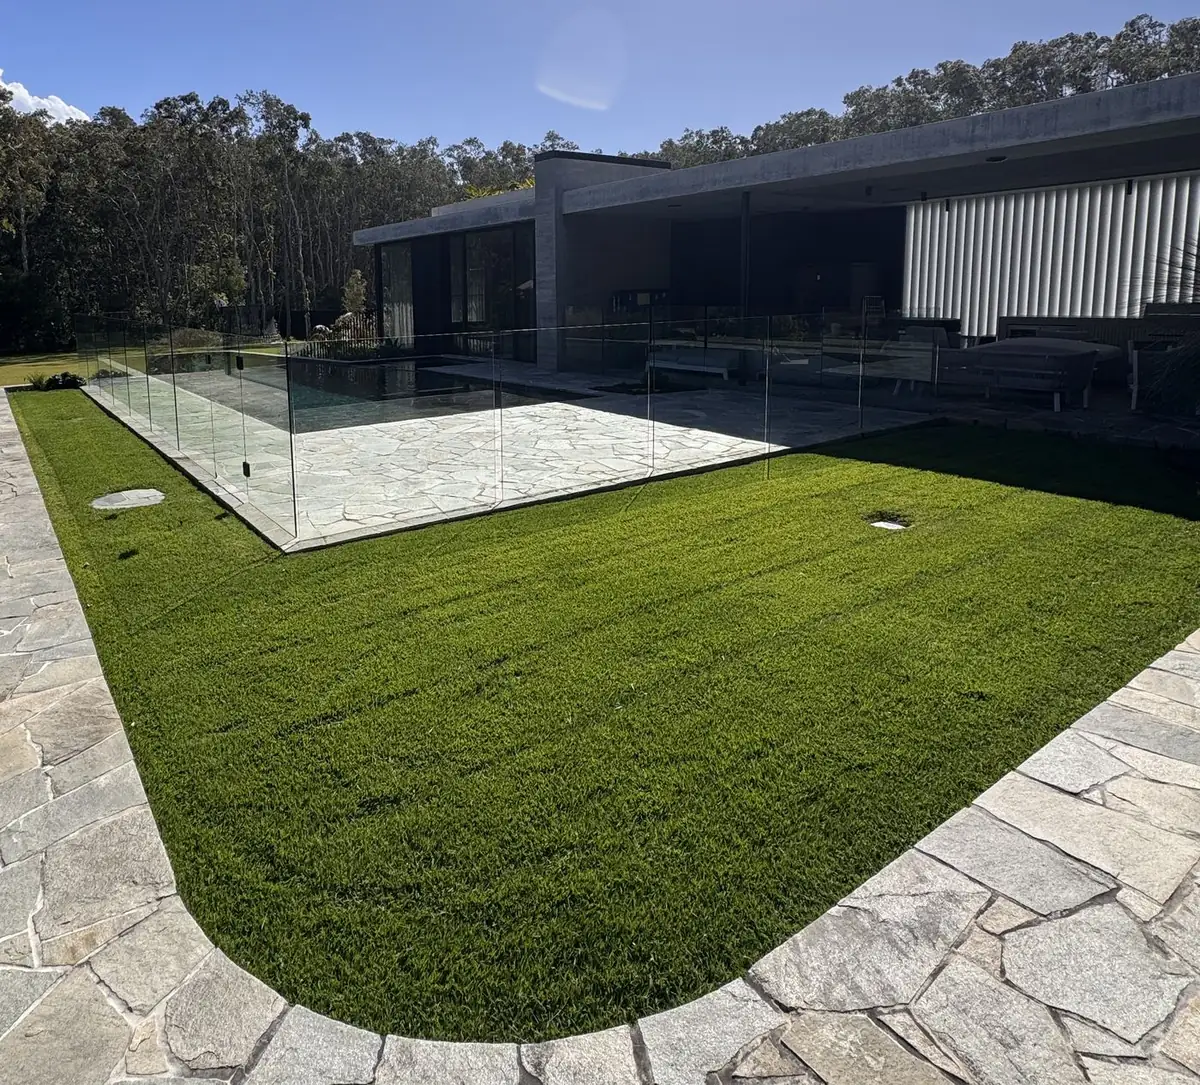
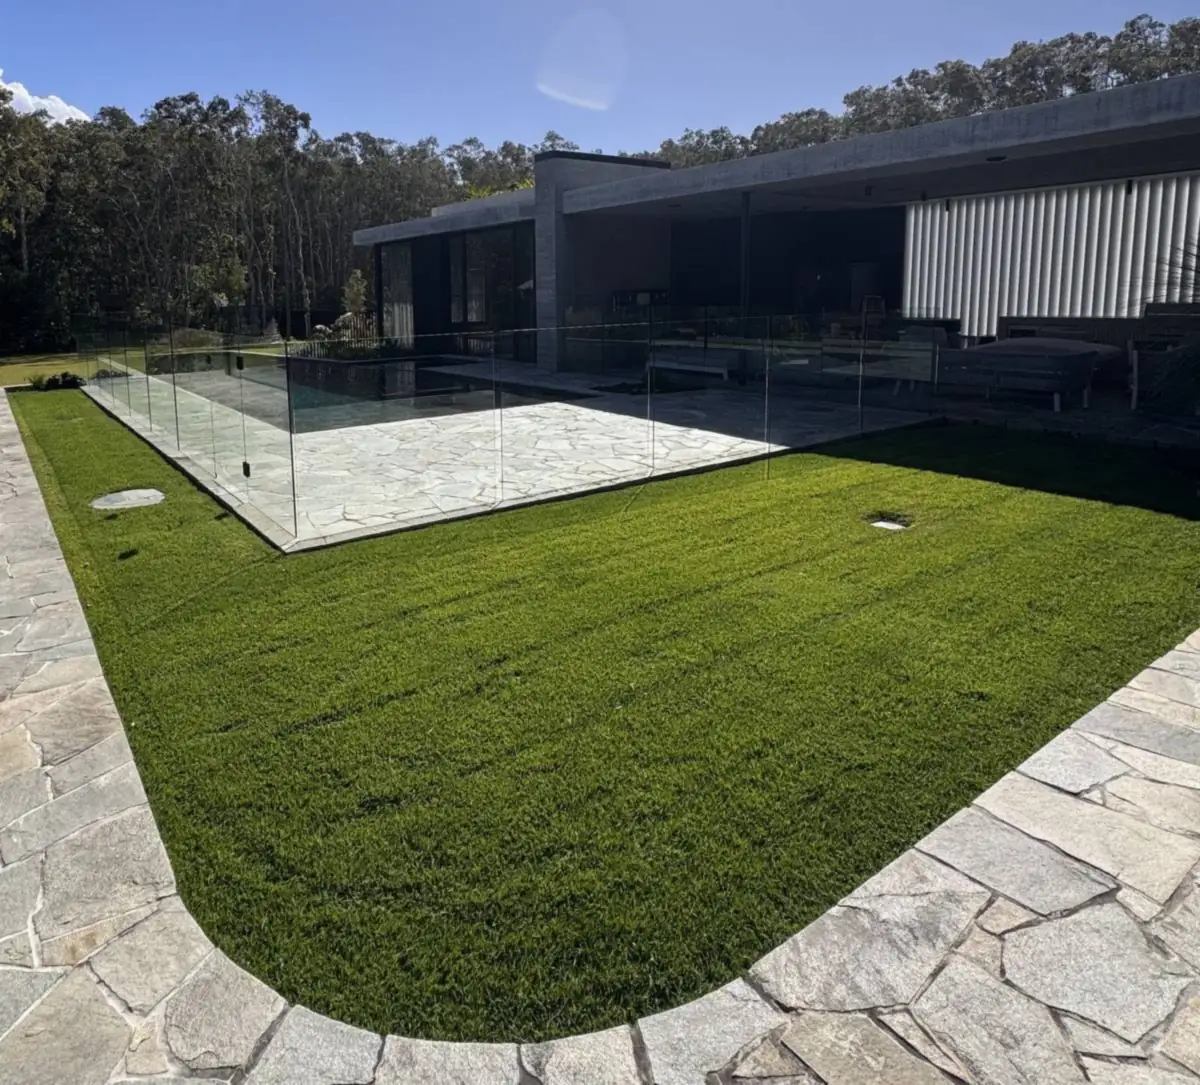
SEO improvements and Google reviews section (#4)

diff --git a/index.html b/index.html
@@ -3,8 +3,8 @@
 <head>
   <meta charset="utf-8">
   <meta name="viewport" content="width=device-width, initial-scale=1">
-  <title>Thrive Outdoor Solutions | Gardening &amp; Lawn Care, Maleny &amp; Sunshine Coast</title>
-  <meta name="description" content="Friendly, reliable gardening and garden maintenance from a local Maleny gardener. Lawn mowing, hedge trimming, weeding, mulching and green waste removal across the Sunshine Coast. Free quotes - call or text 0492 300 404.">
+  <title>Gardener Maleny &amp; Sunshine Coast | Thrive Outdoor Solutions</title>
+  <meta name="description" content="Local Maleny gardener: lawn mowing, hedging, weeding, mulching &amp; green waste across the Sunshine Coast. DVA &amp; aged care clients welcome. Call 0492 300 404.">
   <link rel="canonical" href="https://www.thriveoutdoorsolutions.com.au/">
   <meta name="theme-color" content="#0e1411">
   <link rel="icon" type="image/png" sizes="32x32" href="images/favicon-32.png">
@@ -15,21 +15,22 @@
   <meta property="og:locale" content="en_AU">
   <meta property="og:site_name" content="Thrive Outdoor Solutions">
   <meta property="og:url" content="https://www.thriveoutdoorsolutions.com.au/">
-  <meta property="og:title" content="Thrive Outdoor Solutions | Gardening &amp; Lawn Care, Sunshine Coast">
-  <meta property="og:description" content="Local Maleny gardener. Lawns, hedges, weeding, mulching and green waste removal across the Sunshine Coast. Free quotes - call or text 0492 300 404.">
+  <meta property="og:title" content="Gardener Maleny &amp; Sunshine Coast | Thrive Outdoor Solutions">
+  <meta property="og:description" content="Local Maleny gardener: lawn mowing, hedging, weeding, mulching &amp; green waste across the Sunshine Coast. DVA &amp; aged care clients welcome. Call 0492 300 404.">
   <meta property="og:image" content="https://www.thriveoutdoorsolutions.com.au/images/og-image.jpg">
   <meta property="og:image:width" content="1200">
   <meta property="og:image:height" content="630">
-  <meta property="og:image:alt" content="Thrive Outdoor Solutions logo">
+  <meta property="og:image:alt" content="Thrive Outdoor Solutions logo: two green leaves above the business name on a soft beige background">
   <meta name="twitter:card" content="summary_large_image">
 
   <link rel="preload" as="image" href="images/lawn-pool-720.webp" imagesrcset="images/lawn-pool-720.webp 720w, images/lawn-pool-1200.webp 1200w" imagesizes="(min-width: 900px) 46vw, 100vw" type="image/webp">
-  <link rel="stylesheet" href="css/styles.css?v=3">
+  <link rel="stylesheet" href="css/styles.css?v=4">
 
   <script type="application/ld+json">
   {
     "@context": "https://schema.org",
     "@type": "LocalBusiness",
+    "@id": "https://www.thriveoutdoorsolutions.com.au/#business",
     "name": "Thrive Outdoor Solutions",
     "description": "Gardening and garden maintenance on the Sunshine Coast, Queensland. Lawn mowing and edges, hedge trimming, mulching, weeding, weed spraying, small landscaping jobs, small tree trimming and green waste removal.",
     "url": "https://www.thriveoutdoorsolutions.com.au/",
@@ -37,11 +38,13 @@
     "email": "thriveoutdoorsolutions@gmail.com",
     "logo": "https://www.thriveoutdoorsolutions.com.au/images/icon-512.png",
     "image": "https://www.thriveoutdoorsolutions.com.au/images/og-image.jpg",
+    "priceRange": "From $80/hr",
     "founder": { "@type": "Person", "name": "Kewin Adosson" },
     "address": {
       "@type": "PostalAddress",
       "addressLocality": "Maleny",
       "addressRegion": "QLD",
+      "postalCode": "4552",
       "addressCountry": "AU"
     },
     "areaServed": [
@@ -55,7 +58,9 @@
       { "@type": "Place", "name": "Sunshine Beach, QLD" },
       { "@type": "Place", "name": "Nambour, QLD" }
     ],
+    "hasMap": "https://www.google.com/maps?cid=14386175522178846884",
     "sameAs": [
+      "https://www.google.com/maps?cid=14386175522178846884",
       "https://www.facebook.com/thriveoutdoorsolutions",
       "https://www.instagram.com/thriveoutdoorsolutions"
     ]
@@ -74,6 +79,7 @@
       <nav class="nav" aria-label="Main">
         <a href="#services">Services</a>
         <a href="#care">DVA &amp; aged care</a>
+        <a href="#reviews">Reviews</a>
         <a href="#quote">Contact</a>
       </nav>
       <a class="btn btn-sm" href="tel:0492300404">
@@ -88,8 +94,9 @@
     <section class="hero" id="top">
       <div class="wrap hero-grid">
         <div class="hero-copy">
-          <p class="eyebrow">Gardening &amp; garden maintenance &middot; Sunshine Coast</p>
-          <h1>Gardens kept tidy, healthy and <span class="accent">thriving</span>.</h1>
+          <p class="eyebrow">Local gardener &middot; Hinterland &amp; coast</p>
+          <h1>Garden maintenance in <span class="accent">Maleny</span> &amp; across the Sunshine Coast</h1>
+          <p class="hero-sub">Gardens kept tidy, healthy and thriving.</p>
           <p class="lede">Friendly, reliable lawn and garden care from a local Maleny gardener. One-off tidy-ups or regular visits, across the hinterland and the coast.</p>
           <div class="actions">
             <a class="btn" href="#quote">Get a free quote</a>
@@ -114,7 +121,7 @@
       <div class="wrap">
         <div class="section-head">
           <p class="eyebrow">Services &amp; pricing</p>
-          <h2 id="services-title">Everything your garden needs, done properly.</h2>
+          <h2 id="services-title">Gardening &amp; garden maintenance, done properly.</h2>
           <p class="muted">Every job starts with a free, no-obligation quote.</p>
         </div>
 
@@ -166,7 +173,7 @@
       <div class="wrap care">
         <div>
           <p class="eyebrow">Who I work with</p>
-          <h2 id="care-title">Homeowners, veterans and aged care clients.</h2>
+          <h2 id="care-title">A gardener for homeowners, veterans &amp; aged care clients.</h2>
         </div>
         <div class="care-copy">
           <p>As well as private residential clients, I provide gardening for veterans supported by <strong>DVA</strong> (Department of Veterans' Affairs) and for <strong>aged care and home care package</strong> clients.</p>
@@ -195,6 +202,42 @@
     </section>
     -->
 
+    <!-- REVIEWS -->
+    <section class="section" id="reviews" aria-labelledby="reviews-title">
+      <div class="wrap">
+        <div class="section-head reviews-head">
+          <div>
+            <p class="eyebrow">Google reviews</p>
+            <h2 id="reviews-title">What local clients say.</h2>
+          </div>
+          <p class="rating"><span class="stars" aria-hidden="true">&#9733;&#9733;&#9733;&#9733;&#9733;</span> <span><strong>5.0</strong> <span class="muted">from 5 Google reviews</span></span></p>
+        </div>
+
+        <div class="reviews">
+          <figure class="review">
+            <p class="stars" role="img" aria-label="5 out of 5 stars">&#9733;&#9733;&#9733;&#9733;&#9733;</p>
+            <blockquote><p>Highly recommend Kewin. Always great communication and a great job. Also a perfect gentleman. So polite and happy to discuss requirements. Easily a 5 star review.</p></blockquote>
+            <figcaption><strong>Michael Flannery</strong><span>Google review</span></figcaption>
+          </figure>
+          <figure class="review">
+            <p class="stars" role="img" aria-label="5 out of 5 stars">&#9733;&#9733;&#9733;&#9733;&#9733;</p>
+            <blockquote><p>Kewin is incredibly hard working and can do any gardening tasks, he is considerate, clean and trustworthy</p></blockquote>
+            <figcaption><strong>Andrew Burdon</strong><span>Google review</span></figcaption>
+          </figure>
+          <figure class="review">
+            <p class="stars" role="img" aria-label="5 out of 5 stars">&#9733;&#9733;&#9733;&#9733;&#9733;</p>
+            <blockquote><p>Kevin looks after our lawns, edges and hedges. He is very thorough, leaving our yard clean, tidy and secure when he is finished. He arrives on time and doesn't waste a moment getting stuck into our yard. We are very impressed with the results and our hedges are thicken up beautifully with the regular maintenance he undertakes. We would highly recommend Thrive Outdoor Solutions.</p></blockquote>
+            <figcaption><strong>Mela Mon</strong><span>Google review</span></figcaption>
+          </figure>
+        </div>
+
+        <div class="actions reviews-actions">
+          <a class="btn" href="https://search.google.com/local/writereview?placeid=ChIJf7LH64CoMmkRpNDji2r2pcc" target="_blank" rel="noopener">Leave a review</a>
+          <a class="btn btn-ghost" href="https://www.google.com/maps?cid=14386175522178846884" target="_blank" rel="noopener">See all reviews on Google</a>
+        </div>
+      </div>
+    </section>
+
     <!-- QUOTE / CONTACT -->
     <section class="section" id="quote" aria-labelledby="quote-title">
       <div class="wrap contact">
@@ -211,7 +254,14 @@
             <li><a href="sms:0492300404" id="sms-link"><span>Text</span>0492 300 404</a></li>
             <li><a href="mailto:thriveoutdoorsolutions@gmail.com"><span>Email</span>thriveoutdoorsolutions@gmail.com</a></li>
           </ul>
-          <p class="area"><span class="eyebrow">Service area</span>Based in Maleny, servicing the Sunshine Coast hinterland and coast, including Maleny, Montville, Buderim, Doonan, Diddillibah, Kulangoor, Sunshine Beach, the Nambour area and surrounds.</p>
+          <div class="area">
+            <h3 class="eyebrow">Areas I service</h3>
+            <dl class="areas">
+              <div><dt>Hinterland</dt><dd>Maleny, Montville</dd></div>
+              <div><dt>Coast</dt><dd>Buderim, Doonan, Diddillibah, Kulangoor, Sunshine Beach, Nambour</dd></div>
+            </dl>
+            <p class="fine">&hellip;and surrounds. Based in Maleny. Not sure if I cover you? Just ask.</p>
+          </div>
         </div>
 
         <form class="form" id="quote-form" action="https://formsubmit.co/thriveoutdoorsolutions@gmail.com" method="post">
@@ -272,6 +322,9 @@
         <a href="https://www.instagram.com/thriveoutdoorsolutions" rel="noopener" target="_blank" aria-label="Thrive Outdoor Solutions on Instagram">
           <svg aria-hidden="true" viewBox="0 0 24 24" width="20" height="20"><path fill="currentColor" d="M12 7.3a4.7 4.7 0 1 0 0 9.4 4.7 4.7 0 0 0 0-9.4zm0 7.7a3 3 0 1 1 0-6 3 3 0 0 1 0 6zm6-7.9a1.1 1.1 0 1 1-2.2 0 1.1 1.1 0 0 1 2.2 0zM21 8.3c0-1.7-.5-3.2-1.7-4.4C18.1 2.7 16.6 2.3 15 2.2c-1.7-.1-4.3-.1-6 0-1.6.1-3.1.5-4.3 1.7S3.1 6.6 3 8.3c-.1 1.7-.1 6.8 0 8.4.1 1.6.5 3.1 1.7 4.3 1.2 1.2 2.7 1.6 4.3 1.7 1.7.1 4.3.1 6 0 1.6-.1 3.1-.5 4.3-1.7 1.2-1.2 1.6-2.7 1.7-4.3.1-1.7.1-6.7 0-8.4zm-2.2 10.2a3.4 3.4 0 0 1-1.9 1.9c-1.3.5-4.4.4-4.9.4s-3.6.1-4.9-.4a3.4 3.4 0 0 1-1.9-1.9c-.5-1.3-.4-4.4-.4-4.9s-.1-3.6.4-4.9a3.4 3.4 0 0 1 1.9-1.9c1.3-.5 4.4-.4 4.9-.4s3.6-.1 4.9.4a3.4 3.4 0 0 1 1.9 1.9c.5 1.3.4 4.4.4 4.9s.1 3.6-.4 4.9z"/></svg>
         </a>
+        <a href="https://www.google.com/maps?cid=14386175522178846884" rel="noopener" target="_blank" aria-label="Find Thrive Outdoor Solutions on Google">
+          <svg aria-hidden="true" viewBox="0 0 24 24" width="18" height="18"><path fill="currentColor" d="M12.48 10.92v3.28h7.84c-.24 1.84-.85 3.19-1.79 4.13-1.15 1.15-2.93 2.4-6.05 2.4-4.83 0-8.6-3.89-8.6-8.72s3.77-8.72 8.6-8.72c2.6 0 4.51 1.03 5.91 2.35l2.31-2.31C18.75 1.44 16.13 0 12.48 0 5.87 0 .31 5.39.31 12s5.56 12 12.17 12c3.57 0 6.27-1.17 8.37-3.36 2.16-2.16 2.84-5.21 2.84-7.67 0-.76-.05-1.47-.17-2.05H12.48z"/></svg>
+        </a>
         <a href="mailto:thriveoutdoorsolutions@gmail.com" aria-label="Email Thrive Outdoor Solutions">
           <svg aria-hidden="true" viewBox="0 0 24 24" width="20" height="20"><path fill="currentColor" d="M20 4H4a2 2 0 0 0-2 2v12a2 2 0 0 0 2 2h16a2 2 0 0 0 2-2V6a2 2 0 0 0-2-2zm0 4.2-8 5-8-5V6l8 5 8-5z"/></svg>
         </a>
@@ -281,6 +334,6 @@
     </div>
   </footer>
 
-  <script src="js/main.js?v=3" defer></script>
+  <script src="js/main.js?v=4" defer></script>
 </body>
 </html>

diff --git a/css/styles.css b/css/styles.css
@@ -82,7 +82,7 @@ p { margin: 0; }
 /* Hero */
 .hero { padding: 48px 0 72px; }
 .hero-grid { display: grid; gap: 40px; }
-.hero h1 { font-size: clamp(2.3rem, 7vw, 4rem); max-width: 14ch; }
+.hero h1 { font-size: clamp(1.9rem, 7.8vw, 4rem); max-width: 20ch; text-wrap: balance; }
 .lede { margin-top: 20px; font-size: 1.125rem; color: var(--muted); max-width: 46ch; }
 .actions { display: flex; flex-wrap: wrap; gap: 12px; margin-top: 32px; }
 .hero .fine { margin-top: 20px; }
@@ -233,4 +233,39 @@ p { margin: 0; }
 @media (prefers-reduced-motion: reduce) {
   html { scroll-behavior: auto; }
   * { transition: none !important; }
+}
+
+/* Hero subheading */
+.hero-sub { margin-top: 18px; font-size: clamp(1.15rem, 2.6vw, 1.4rem); font-weight: 600; color: var(--text); letter-spacing: -0.01em; }
+.hero-sub + .lede { margin-top: 10px; }
+
+/* Reviews */
+.stars { color: var(--accent-2); letter-spacing: .12em; line-height: 1; }
+.reviews-head { display: flex; flex-wrap: wrap; justify-content: space-between; align-items: flex-end; gap: 16px 32px; }
+.rating { display: flex; align-items: center; gap: 10px; font-size: .95rem; }
+.rating strong { font-weight: 700; color: var(--text); }
+.reviews { display: grid; gap: 16px; }
+.review {
+  margin: 0; display: flex; flex-direction: column; gap: 14px;
+  background: var(--surface); border: 1px solid var(--line); border-radius: var(--radius); padding: 24px;
+}
+.review .stars { font-size: .95rem; }
+.review blockquote { margin: 0; color: var(--text); font-size: .975rem; line-height: 1.6; }
+.review figcaption { margin-top: auto; padding-top: 14px; border-top: 1px solid var(--line); display: flex; justify-content: space-between; gap: 12px; font-size: .9rem; }
+.review figcaption strong { font-weight: 600; }
+.review figcaption span { color: var(--muted); font-size: .8rem; }
+.reviews-actions { margin-top: 28px; }
+
+/* Service areas */
+.areas { margin: 0 0 10px; display: grid; }
+.areas div { display: flex; gap: 16px; padding: 10px 0; border-bottom: 1px solid var(--line); }
+.areas div:first-child { border-top: 1px solid var(--line); }
+.areas dt { width: 104px; flex: none; font-size: .78rem; text-transform: uppercase; letter-spacing: .12em; color: var(--muted); padding-top: 2px; }
+.areas dd { margin: 0; color: var(--text); }
+.area { max-width: none; }
+.area h3.eyebrow { font-size: .78rem; line-height: 1.65; letter-spacing: .14em; margin-bottom: 10px; }
+
+@media (min-width: 900px) {
+  .reviews { grid-template-columns: repeat(3, 1fr); }
+  .hero h1 { font-size: clamp(2.4rem, 3.8vw, 3rem); }
 }
